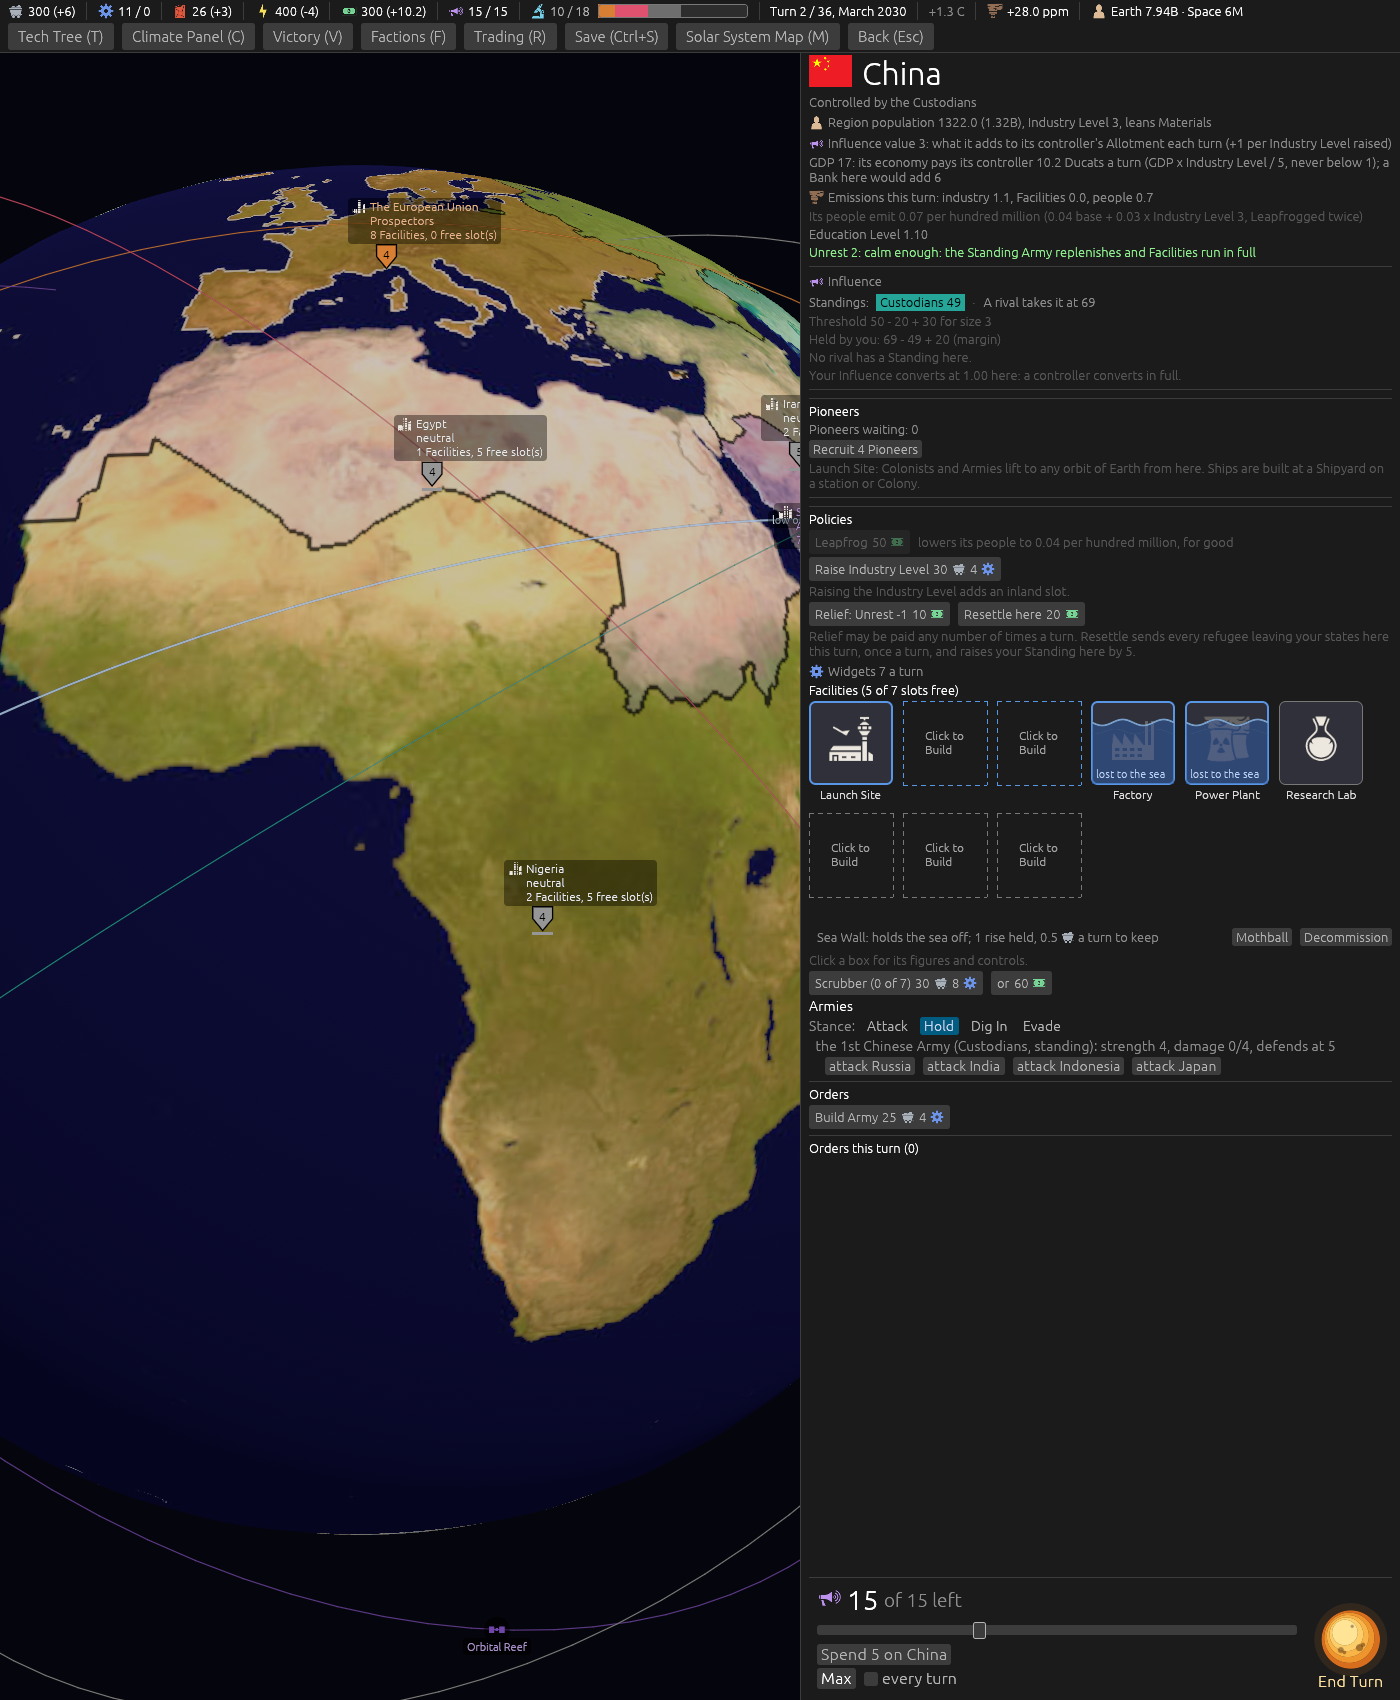
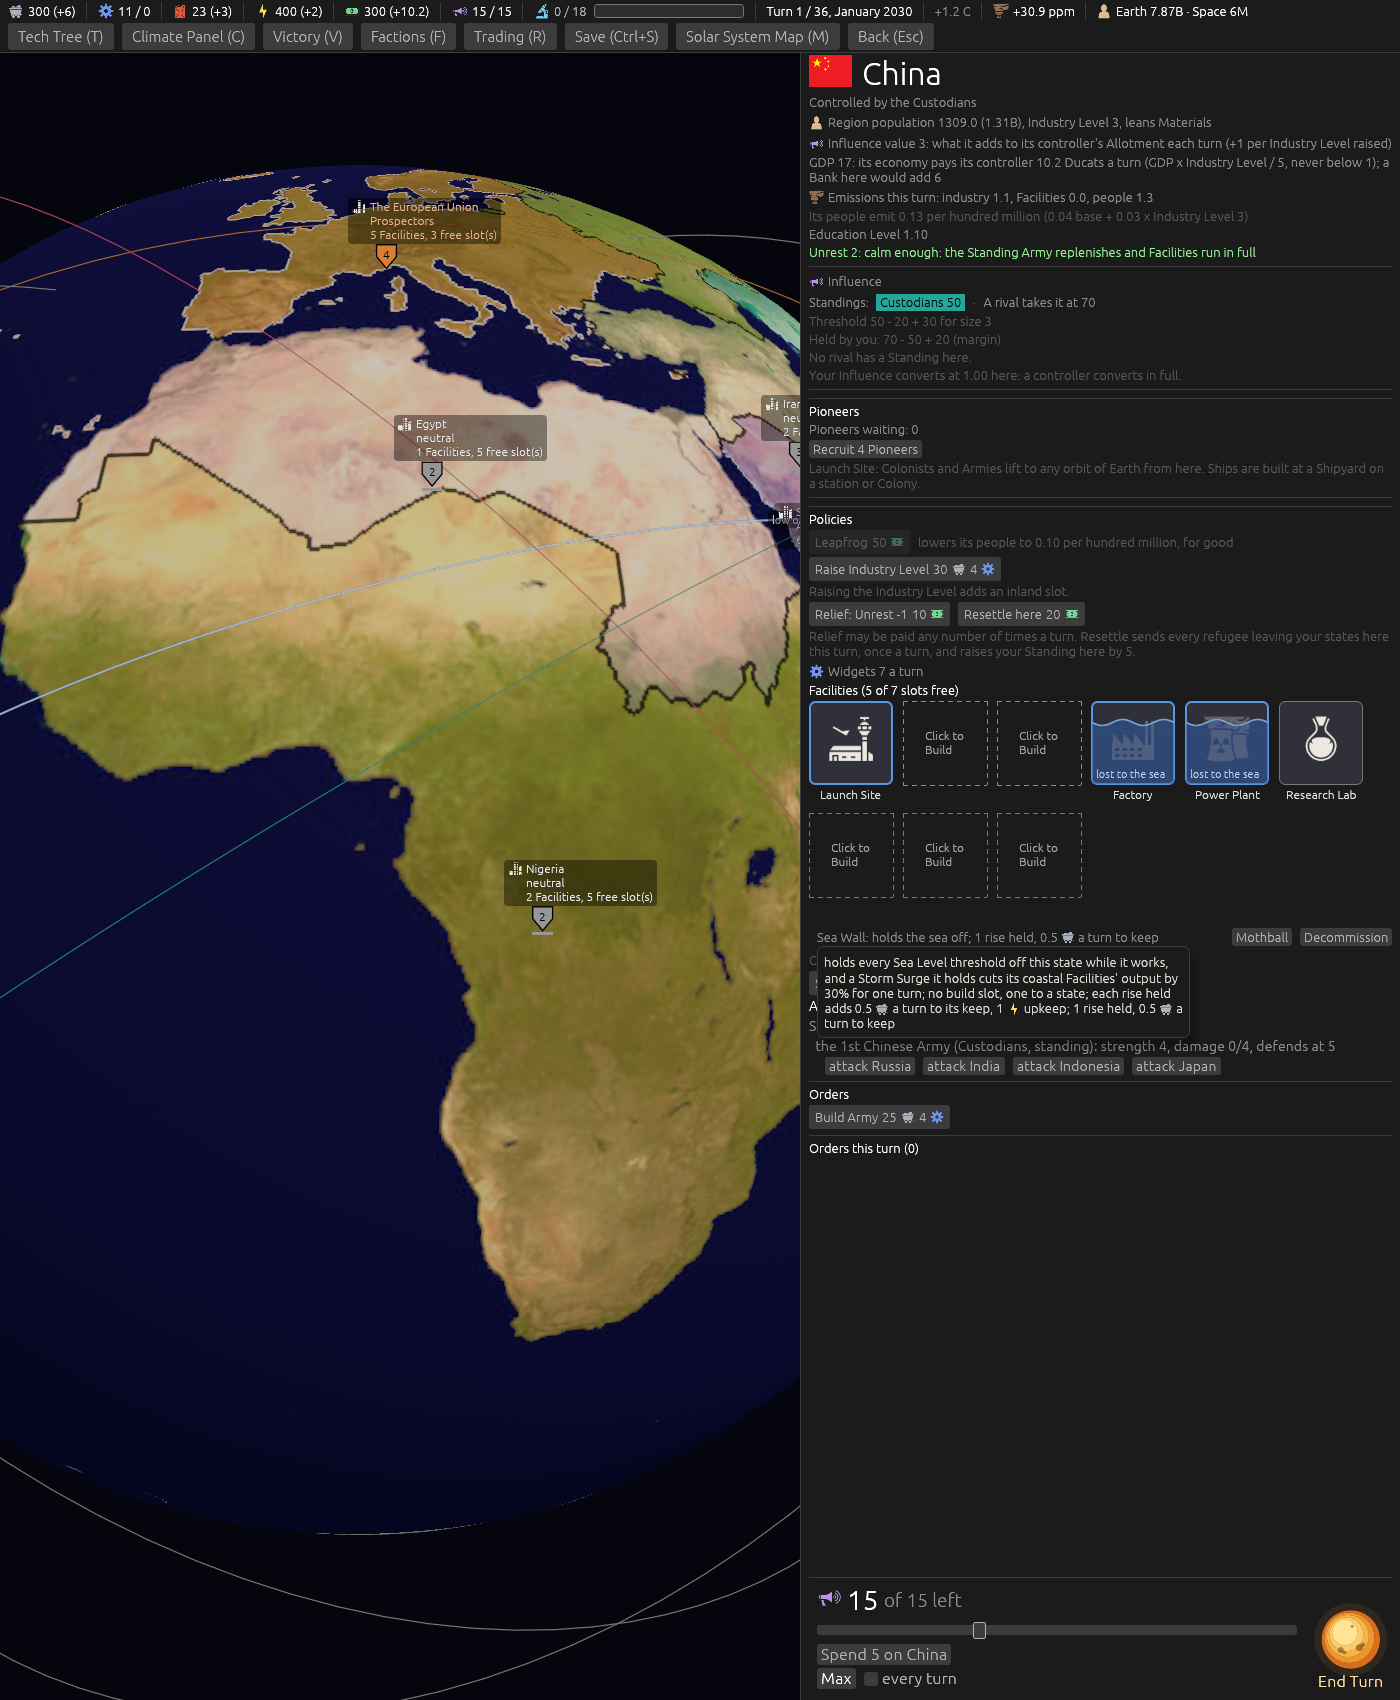
The review's fix-ups for the Region card
Ticket #390: a short row's hover is its sentence alone, within the six-line ceiling; the Sea Wall's
keep clause written once for the short row and the full sentence, in the resolution's words; a doc
comment back on its function, three stale comments corrected, doubled blank lines folded; the
glossary gains Policies and says where the Army and Ship builds live; the spec names two
departures from the resolution's wording, the slotless buttons under the strip and the Ducat-price
"or" that stays; the Scrubber rows and the Sea Wall's hover pictured.

diff --git a/src/ui.rs b/src/ui.rs
@@ -6184,6 +6184,34 @@ fn standings_row(ui: &mut Ui, game: &Game, session: &Session, target: Place, thr
     rule_tip(row.response, explain);
 }
 
+/// Ticket #390 (version 0.09.3): what a standing Scrubber or Sea Wall says on its one line --
+/// *Scrubber: +3.0 ppm Sink, 1 off Unrest a turn, 3 Energy upkeep*; *Sea Wall: holds the sea off; 3
+/// rises held, 1.5 Materials a turn to keep* (or *nothing held yet*, and *unkept this turn* when it
+/// is) -- the figures the data holds, glyph-rendered by the row, in the resolution's words.
+fn no_slot_figures(game: &Game, f: &Facility) -> String {
+    let card = game.tables.facility(f.kind);
+    match f.kind {
+        FacilityKind::SeaWall => format!("holds the sea off; {}{}", sea_wall_keep(game, f), sea_wall_unkept(f)),
+        _ => format!("+{:.1} ppm Sink, {} off Unrest a turn, {} Energy upkeep", card.sink_per_turn, Game::unrest_figure(game.tables.unrest.scrubber_fall), card.energy_upkeep),
+    }
+}
+
+/// Ticket #390: a Sea Wall's keep in words, read by its short row and its full sentence alike --
+/// *3 rises held, 1.5 Materials a turn to keep*, or *nothing held yet* -- so the keep rule is
+/// written once.
+fn sea_wall_keep(game: &Game, f: &Facility) -> String {
+    let keep = f.rises_held as f64 * game.tables.sea_wall.upkeep_per_rise;
+    match f.rises_held {
+        0 => "nothing held yet".to_string(),
+        1 => format!("1 rise held, {} Materials a turn to keep", figure(keep)),
+        n => format!("{n} rises held, {} Materials a turn to keep", figure(keep)),
+    }
+}
+
+/// Ticket #390: the clause a Sea Wall left unkept this turn adds, and nothing otherwise.
+fn sea_wall_unkept(f: &Facility) -> &'static str {
+    if !f.online && !f.mothballed { "; unkept this turn" } else { "" }
+}
 
 /// Ticket #146 (version 0.07.3): one Facility's line -- its figures with their glyphs, the hover
 /// naming the rule, and the Mothball / Restart / Decommission buttons on the line (ticket #138).
@@ -6192,27 +6220,6 @@ fn standings_row(ui: &mut Ui, game: &Game, session: &Session, target: Place, thr
 /// The figures a Facility's line carries: what it makes, its upkeep and its Emissions, or the
 /// sentence a mothballed or undirected one shows instead. Read by the row and, since ticket #150
 /// (version 0.07.4), by the slot box's hover.
-/// Ticket #390 (version 0.09.3): what a standing Scrubber or Sea Wall says on its one line --
-/// *Scrubber: +3.0 ppm Sink, 1 off Unrest a turn, 3 Energy upkeep*; *Sea Wall: holds the sea off; 3
-/// rises held, 1.5 Materials a turn to keep* (or *no rise held yet*, and *unkept this turn* when it
-/// is) -- the figures the data holds, glyph-rendered by the row.
-fn no_slot_figures(game: &Game, f: &Facility) -> String {
-    let card = game.tables.facility(f.kind);
-    match f.kind {
-        FacilityKind::SeaWall => {
-            let keep = f.rises_held as f64 * game.tables.sea_wall.upkeep_per_rise;
-            let held = match f.rises_held {
-                0 => "no rise held yet".to_string(),
-                1 => format!("1 rise held, {} Materials a turn to keep", figure(keep)),
-                n => format!("{n} rises held, {} Materials a turn to keep", figure(keep)),
-            };
-            let unkept = if !f.online { "; unkept this turn, holding nothing" } else { "" };
-            format!("holds the sea off; {held}{unkept}")
-        }
-        _ => format!("+{:.1} ppm Sink, {} off Unrest a turn, {} Energy upkeep", card.sink_per_turn, Game::unrest_figure(game.tables.unrest.scrubber_fall), card.energy_upkeep),
-    }
-}
-
 fn facility_figures(game: &Game, sid: StateId, f: &Facility, director: Option<Seat>) -> String {
     // Ticket #54: a mothballed Facility says so rather than showing figures it is not making.
     if f.mothballed {
@@ -6224,14 +6231,8 @@ fn facility_figures(game: &Game, sid: StateId, f: &Facility, director: Option<Se
     // Ticket #257 (version 0.08.4): a Sea Wall says what it has held back and what that costs.
     if f.kind == FacilityKind::SeaWall {
         let yield_text = director.map(|d| game.facility_yield(d, sid, f.kind).text()).unwrap_or_else(|| "idle, nobody directs this state".to_string());
-        let keep = f.rises_held as f64 * game.tables.sea_wall.upkeep_per_rise;
-        let held = match f.rises_held {
-            0 => "has held back no rise yet".to_string(),
-            1 => format!("has held back 1 rise: {} Materials a turn to keep", figure(keep)),
-            n => format!("has held back {n} rises: {} Materials a turn to keep", figure(keep)),
-        };
-        let unkept = if !f.online && !f.mothballed { "; unkept this turn, holding nothing" } else { "" };
-        return format!("{yield_text}; {held}{unkept}");
+        // Ticket #390 (version 0.09.3): the keep clause the short row reads too, written once.
+        return format!("{yield_text}; {}{}", sea_wall_keep(game, f), sea_wall_unkept(f));
     }
     match director {
         Some(d) if world_lab => format!("{} (the Lab works for the world: {} Research a turn to the Tech under research)", game.facility_yield(d, sid, f.kind).text(), game.world_lab_yield(sid) / 2),
@@ -6297,8 +6298,9 @@ fn facility_row(ui: &mut Ui, session: &Session, game: &Game, sid: StateId, i: us
             &[],
         );
         // Ticket #352 (version 0.09.1): with its arithmetic, where the figure is multiplied.
-        let rules = facility_rules(f.kind.name(), f.coastal);
-        let rules = if short.is_some() { format!("{full}\n{rules}") } else { rules };
+        // Ticket #390 (version 0.09.3): a short row's hover is its whole sentence and nothing else,
+        // so the Sea Wall's, the longest in the data, stays within the six-line ceiling.
+        let rules = if short.is_some() { full.clone() } else { facility_rules(f.kind.name(), f.coastal) };
         let tip = match director.filter(|_| !f.mothballed).map(|d| game.facility_yield(d, sid, f.kind).chain).filter(|c| c.multiplied()) {
             Some(chain) => chain_tip(&rules, &chain),
             None => rules,
@@ -6329,7 +6331,7 @@ fn facility_build_buttons(ui: &mut Ui, session: &Session, game: &Game, sid: Stat
         }
         // Ticket #54: the Scrubber has its own button, with the state's cap on it. Ticket #154
         // (version 0.07.4): so does the Sea Wall -- neither takes a slot, so neither is offered
-        // for a free box; both stand under the boxes in `no_slot_section`.
+        // for a free box; both stand under the strip, in `no_slot_buttons` (ticket #390).
         if !game.takes_slot(fk) {
             continue;
         }
@@ -6348,12 +6350,10 @@ fn facility_build_buttons(ui: &mut Ui, session: &Session, game: &Game, sid: Stat
 }
 
 /// Ticket #154 (version 0.07.4): **the Facilities that take no slot** -- the Scrubber and the Sea
-/// Wall -- under the boxes, in the Facilities section: each a row when it stands, a line while it
-/// builds, and a build button pair when it may be built here. The designer: *"scrubber sea wall
-/// need to stay but put them in the same section as the tiles just below them."* The Scrubber's
-/// pair carries the state's cap; the Sea Wall's appears once Coastal Engineering is in and while
-/// none stands or builds, one being the most a state may hold.
-#[allow(clippy::too_many_arguments)]
+/// Wall -- under the boxes, in the Facilities section, each a row when it stands. The designer:
+/// *"scrubber sea wall need to stay but put them in the same section as the tiles just below
+/// them."* Ticket #390 (version 0.09.3): the rows here, between the boxes and the strip, and the
+/// build buttons in `no_slot_buttons` under the strip; one built is on the card's queue (#332).
 fn no_slot_rows(ui: &mut Ui, session: &Session, game: &Game, sid: StateId, mine: bool, director: Option<Seat>, actions: &mut Vec<Action>) {
     let st = game.state(sid);
     for (i, f) in st.facilities.iter().enumerate() {
@@ -6458,7 +6458,6 @@ fn slot_strip(ui: &mut Ui, session: &Session, game: &Game, view: &mut ViewState,
         }
     }
 }
-
 
 /// Ticket #146 (version 0.07.3): **a Region's build slots as boxes**, in the Hab View's language.
 /// The designer: *"represent them as boxes inland and costal differ in line used for the box …

diff --git a/docs/dev-diary/2026-09-26-version-0.09.3/ticket-390-region-card/README.md b/docs/dev-diary/2026-09-26-version-0.09.3/ticket-390-region-card/README.md
@@ -27,12 +27,33 @@ and the build strip under the boxes, the Armies, and Orders with Build Army at t
 ![The rearranged Region card](region-card.png)
 
 **The same card with a Sea Wall standing**, the `walls:1` aid (two coastal slots taken, the wall
-holding): the completed row between the boxes and the strip, one line -- *Sea Wall: holds the sea
-off; 1 rise held, 0.5 Materials a turn to keep* -- with its Mothball and Decommission beside it,
-then the strip and the Scrubber's capped button under it. The `scrub:` aid placed no Scrubber on
-this board, so the Scrubber's one-line row is witnessed by the same code path and not pictured.
+holding) with `tip:Surge` forcing the row's hover: the completed row between the boxes and the
+strip, one line -- *Sea Wall: holds the sea off; 1 rise held, 0.5 Materials a turn to keep* -- with
+its Mothball and Decommission beside it, and its hover the whole sentence, five lines, within the
+six-line ceiling.
 
 ![The card with a Sea Wall standing](region-card-walls.png)
+
+**The same card with two Scrubbers standing**, the `scrub:2` aid alone (it placed none beside
+`walls:1`): two one-line rows, *Scrubber: +3.0 ppm Sink, 1 off Unrest a turn, 3 Energy upkeep*,
+glyph-rendered, each with its Mothball and Decommission, and the Scrubber's button reading *(2 of
+7)*.
+
+![The card with two Scrubbers standing](region-card-scrubbers.png)
+
+## The review
+
+Two axes, standards and spec. What they found and what changed: the short row's hover had the
+row's whole sentence and the rules text both, which put a Sea Wall's hover past the six-line
+ceiling; the hover is the sentence alone now, six lines at most. The Sea Wall's keep clause was
+written twice, in the short row and the full sentence; it is one helper now, and the row's words
+are the resolution's (*nothing held yet*, *unkept this turn*). A doc comment had landed on the
+wrong function, three comments still named the old layout, and two blank lines doubled. The
+glossary gained a **Policies** entry and says where the Army and Ship builds live. Two departures
+from the resolution's wording the spec now names plainly: the slotless buttons stand under the
+strip rather than "among" it, since the strip shows buttons only while a free box is clicked; and
+the *or* the resolution said should go is the Ducat-price button every build button carries, so it
+stays. The Scrubber's one-line row, unpictured in the first pass, is pictured below.
 
 ## No rule moved
 

diff --git a/docs/spec/version-0.09.3.md b/docs/spec/version-0.09.3.md
@@ -259,7 +259,11 @@ the Prospectors' Strip Permit, Raise Industry Level, and Relief and Resettle wit
 subheading they stood under; Widgets and the queue; **Facilities**: the slot boxes, then the
 completed Sea Wall and Scrubber rows, then the build strip, then the Scrubber's and the Sea Wall's
 build buttons; **Armies**: the stance, the stack and the Army rows; and **Orders**, holding **Build
-Army**, since *"all army/ship builds should be in orders sections for both"* cards. The Colony
+Army**, since *"all army/ship builds should be in orders sections for both"* cards. One departure
+from the resolution's wording, which put the two slotless buttons "among" the strip's: the strip
+shows its buttons only while a free box is clicked, and a Scrubber or Sea Wall takes no slot, so
+their buttons stand under the strip whatever box is clicked; with a free box clicked they read as
+the last two of the list. The Colony
 card's Orders section stays as it is, holding Build Army (Barracks) and Ships (Shipyard).
 
 **What a completed Sea Wall or Scrubber row says**: one glyph-rendered line, *Scrubber: +3.0 ppm
@@ -269,5 +273,8 @@ the row's whole sentence is its hover. The separate *N Scrubbers here take …* 
 is gone, the rows saying it.
 
 **Their build buttons**: *Scrubber (2 of 3)*, the state's cap in the label where a sentence stood
-after it, and *Sea Wall*, each priced as every build button is with its Ducat price beside it (the
-*or* is the Ducat price, on every button, and stays).
+after it, and *Sea Wall*, each priced as every build button is with its Ducat price beside it. The
+resolution said "the *or* words go"; the *or* turned out to be the Ducat-price button every build
+button carries (*or 60 Ducats*), which the ticket's charting had misread as filler, so it stays on
+these two as on the rest. That is an override of the resolution's line and is said here for the
+designer's eye.

diff --git a/CONTEXT.md b/CONTEXT.md
@@ -656,6 +656,10 @@ _Avoid_: step, stage, segment
 The phase in which a Faction commits everything it will do that turn: building, raising Industry Level, allocating the Influence Allotment, lifting, setting transits and Stances, and ordering attacks and landings. Any order can be cancelled and fully refunded until End Turn is pressed, save a Ship stack's Attack, which since version 0.09.2 is fought when confirmed and cannot be taken back.
 _Avoid_: commands, moves, actions, player phase
 
+**Policies**:
+The block on a Region's card, since version 0.09.3, holding what the player may set for the Region rather than build in it: the Custodians' Leapfrog, the Arkwrights' Exodus Call, the Prospectors' Strip Permit, Raise Industry Level, Relief and Resettle. It stands between the Pioneers and the Facilities. The card's Orders block, at its foot, holds Build Army alone; a Colony's Orders block holds Build Army and Ships, since every Army and Ship build lives in an Orders block on both cards.
+_Avoid_: orders (for these), decrees, edicts
+
 **Refusal**:
 The engine's own reason an order cannot be placed, in its own words. Since version 0.09.2 every greyed control shows it on mouseover, the reason first and the control's description after, within the six-line ceiling every hover keeps; a control the engine checks only after the click refuses in the red line under the card.
 _Avoid_: error, warning (a stranding warning is not a refusal), block message
